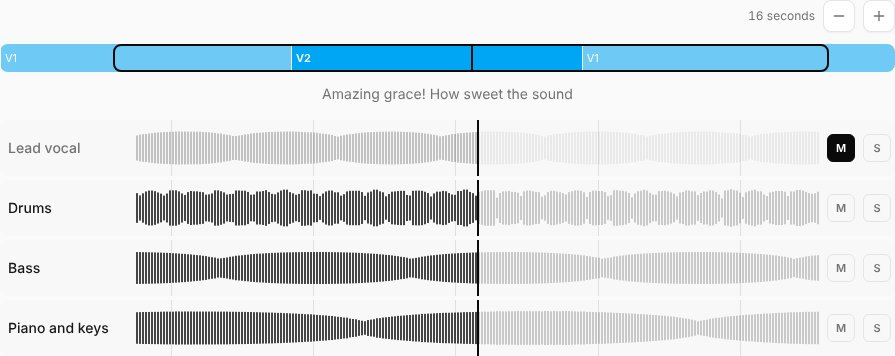
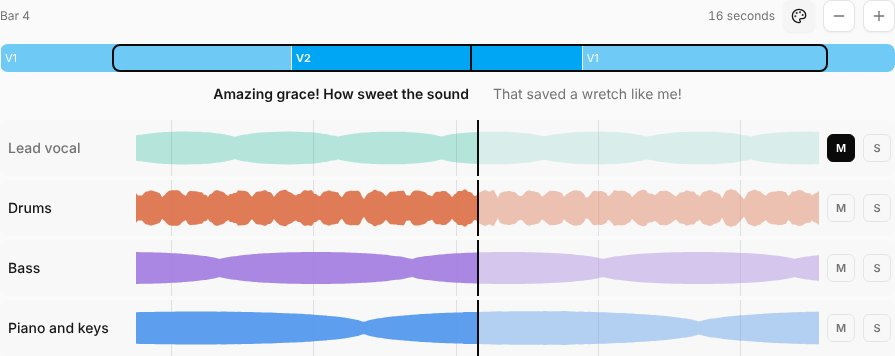
Tracks: waveforms as a filled shape, a colour per part
brice compared eight ways to draw the Tracks view's waveforms and picked
the filled shape: one smooth outline mirrored about the middle, calmer
than thin lines while it scrolls. Each lane and the take being recorded
draw it, played solid and ahead faint, a muted part fainter. Each part
has its colour (voices green and teal, drums orange, bass purple, guitar
amber, keys blue), on by default, with a toggle in the toolbar kept on the
device (lib/track-colours.ts).

e2e web/tracks reads a lane's pixels: coloured, then grey with the toggle
off. Docs EN/FR; the English Tracks screenshot retaken (the French run of
the screenshots stopped before it in this container).

Closes #379

Claude-Session: https://claude.ai/code/session_016jjJSwhSFwdR6ZM1cYGhrp

diff --git a/apps/web/src/components/tracks-view.tsx b/apps/web/src/components/tracks-view.tsx
@@ -1,5 +1,5 @@
 import { barAt, barBeatPlaces, chartBars, cueAt, lineAtPosition, recordingBeatPosition, sortedCues, type Attachment, type CueSection, type RenderedChart, type SongDocumentV2 } from "@oneverse/core";
-import { Minus, Plus } from "lucide-react";
+import { Minus, Palette, Plus } from "lucide-react";
 import { useCallback, useEffect, useMemo, useRef, useState, type PointerEvent as ReactPointerEvent } from "react";
 import { useTranslation } from "react-i18next";
 import { Button } from "@oneverse/ui/components/button";
@@ -10,17 +10,50 @@ import { useTrackName } from "#/components/stem-dock";
 import { keepInView } from "#/lib/follow-view";
 import { deviceNow } from "#/lib/output-clock";
 import { getStemState, isAudible, seekStems, stemBuffer, toggleStemMute, toggleStemSolo, useStems, type StemTrack } from "#/lib/stem-engine";
+import { partColour, setTrackColours, useTrackColours } from "#/lib/track-colours";
 import { COLUMN, columnPeaks, liveTake } from "#/lib/take-strip";
 import { useMarkTracksShown } from "#/lib/tracks-shown";
 
 /** How much of the song the lanes show (s); the last, all of it. */
 const ZOOMS = [8, 16, 32, Number.POSITIVE_INFINITY];
 const DEFAULT_ZOOM = 1;
-/** Each column's width and the gap after it (CSS px). */
-const BAR = 2;
-const STEP = 3;
+/** How far apart the waveform's outline is read (CSS px). */
+const STEP = 2;
 /** The words lit a beat before they're sung, as in the chart. */
 const AHEAD = 1;
+
+/**
+ * A waveform as one filled shape, mirrored about the middle (issue #379):
+ * calmer than lines while it scrolls. `levels` are 0-1, one every STEP px
+ * from x = 0; left of `cut` is drawn as played, the rest as ahead.
+ */
+function drawShape(context: CanvasRenderingContext2D, width: number, height: number, levels: number[], cut: number, played: { colour: string; alpha: number }, ahead: { colour: string; alpha: number }) {
+  if (!levels.some((level) => level > 0)) return;
+  const middle = height / 2;
+  const half = (level: number) => (level > 0 ? Math.max(0.5, along(level) * (middle - 2)) : 0);
+  const outline = () => {
+    context.beginPath();
+    context.moveTo(0, middle);
+    levels.forEach((level, i) => context.lineTo(i * STEP, middle - half(level)));
+    for (let i = levels.length - 1; i >= 0; i--) context.lineTo(i * STEP, middle + half(levels[i]!));
+    context.closePath();
+  };
+  for (const [left, right, look] of [
+    [0, cut, played],
+    [cut, width, ahead],
+  ] as const) {
+    if (right <= left || look.alpha <= 0) continue;
+    context.save();
+    context.beginPath();
+    context.rect(left, 0, right - left, height);
+    context.clip();
+    context.globalAlpha = look.alpha;
+    context.fillStyle = look.colour;
+    outline();
+    context.fill();
+    context.restore();
+  }
+}
 
 /** The bar lines between `from` and `to` (s): the recording's own downbeats when they were found, else its tempo from its first beat. */
 function barLines(beat: ReturnType<typeof getStemState>["beat"], from: number, to: number): number[] {
@@ -119,8 +152,9 @@ export function TracksView({
   const canvases = useRef<(HTMLCanvasElement | null)[]>([]);
   const takeCanvas = useRef<HTMLCanvasElement | null>(null);
   const windowBox = useRef<HTMLDivElement | null>(null);
-  const latest = useRef({ tracks, duration, span, whole, engine, bars, places, lines });
-  latest.current = { tracks, duration, span, whole, engine, bars, places, lines };
+  const coloured = useTrackColours();
+  const latest = useRef({ tracks, duration, span, whole, engine, bars, places, lines, coloured });
+  latest.current = { tracks, duration, span, whole, engine, bars, places, lines, coloured };
   const [recording, setRecording] = useState(false);
   // The take's lane in view as it starts, above the player and the recorder (once, not on each render).
   const showTake = useCallback((element: HTMLLIElement | null) => {
@@ -156,7 +190,7 @@ export function TracksView({
       return { context, width, height };
     };
     let frame = requestAnimationFrame(function tick() {
-      const { tracks, duration, engine, bars, places, lines } = latest.current;
+      const { tracks, duration, engine, bars, places, lines, coloured } = latest.current;
       const at = stemsPosition();
       tracks.forEach((track, index) => {
         const element = canvases.current[index];
@@ -173,15 +207,14 @@ export function TracksView({
           context.globalAlpha = 0.18;
           for (const line of lines) context.fillRect(Math.round(((line - from) / length) * width), 0, 1, height);
         }
-        for (let x = 0; x < width; x += STEP) {
+        const levels: number[] = [];
+        for (let x = 0; x <= width + STEP; x += STEP) {
           const start = from + (x / width) * length;
-          const level = peakBetween(track, start, start + per);
-          if (level <= 0) continue;
-          const size = Math.max(1, along(level) * (height - 4));
-          context.fillStyle = start < at ? colours.played : colours.ahead;
-          context.globalAlpha = (start < at ? 0.75 : 0.35) * (on ? 1 : 0.3);
-          context.fillRect(x, (height - size) / 2, BAR, size);
+          levels.push(start < 0 ? 0 : peakBetween(track, start, start + per));
         }
+        // A colour per part (issue #379), else the page's ink.
+        const tint = coloured && !track.take ? partColour(track.part, index) : null;
+        drawShape(context, width, height, levels, ((at - from) / length) * width, { colour: tint ?? colours.played, alpha: (tint ? 0.9 : 0.75) * (on ? 1 : 0.3) }, { colour: tint ?? colours.ahead, alpha: (tint ? 0.4 : 0.35) * (on ? 1 : 0.3) });
         context.globalAlpha = 1;
         context.fillStyle = colours.head;
         context.fillRect(Math.round(head) - 1, 0, 2, height);
@@ -198,18 +231,17 @@ export function TracksView({
         const { context, width, height } = prepared;
         const { from, length, head } = frameOf(width, at);
         const peaks = liveTake.peaks;
-        context.fillStyle = colours.take;
-        for (let x = 0; x < width; x += STEP) {
+        const levels: number[] = [];
+        for (let x = 0; x <= width + STEP; x += STEP) {
           const start = from + (x / width) * length;
           if (start > at) break;
           const first = Math.floor((start - liveTake.from) / COLUMN);
           const last = Math.floor((start + (length / width) * STEP - liveTake.from) / COLUMN);
           let level = 0;
           for (let column = Math.max(0, first); column <= Math.min(peaks.length - 1, last); column++) level = Math.max(level, peaks[column]!);
-          if (level <= 0) continue;
-          const size = Math.max(1, along(level) * (height - 4));
-          context.fillRect(x, (height - size) / 2, BAR, size);
+          levels.push(level);
         }
+        drawShape(context, width, height, levels, width, { colour: colours.take, alpha: 1 }, { colour: colours.take, alpha: 0 });
         context.fillStyle = colours.head;
         context.fillRect(Math.round(head) - 1, 0, 2, height);
       }
@@ -274,6 +306,19 @@ export function TracksView({
         <span className="tabular-nums" data-testid="tracks-zoom">
           {whole ? t("tracks.wholeSong") : t("tracks.seconds", { count: span })}
         </span>
+        <Button
+          type="button"
+          variant={coloured ? "secondary" : "outline"}
+          size="icon"
+          className="size-8"
+          onClick={() => setTrackColours(!coloured)}
+          aria-pressed={coloured}
+          aria-label={t("tracks.colours")}
+          title={t("tracks.colours")}
+          data-testid="tracks-colours"
+        >
+          <Palette />
+        </Button>
         <Button type="button" variant="outline" size="icon" className="size-8" disabled={zoom === ZOOMS.length - 1 || whole} onClick={() => setZoom(Math.min(ZOOMS.length - 1, zoom + 1))} aria-label={t("tracks.zoomOut")} title={t("tracks.zoomOut")} data-testid="tracks-zoom-out">
           <Minus />
         </Button>

diff --git a/apps/web/src/lib/track-colours.ts b/apps/web/src/lib/track-colours.ts
@@ -1,0 +1,64 @@
+import type { StemPart } from "@oneverse/core";
+import { useSyncExternalStore } from "react";
+
+/**
+ * A colour per part for the Tracks view's waveforms (issue #379): voices in
+ * greens and teals, the rhythm section warm, the rest cool. Mid lightness, so
+ * they read on a light page and a dark one alike.
+ */
+const HUES: Record<StemPart, number> = {
+  VOCALS: 175,
+  HARMONY_SOPRANO: 155,
+  HARMONY_ALTO: 140,
+  HARMONY_TENOR: 125,
+  HARMONY_BASS: 110,
+  BACKING_VOCALS: 195,
+  DRUMS: 40,
+  BASS: 300,
+  GUITAR: 75,
+  KEYS: 255,
+  OTHER: 220,
+  CLICK: 0,
+};
+/** For parts that don't say what they are: in turn. */
+const SPARE = [20, 330, 90, 235, 160, 280];
+
+export function partColour(part: StemPart | null, index: number): string {
+  if (part === "CLICK") return "oklch(0.62 0 0)";
+  const hue = part ? HUES[part] : SPARE[index % SPARE.length]!;
+  return `oklch(0.66 0.15 ${hue})`;
+}
+
+const KEY = "songverse.tracksColours";
+const listeners = new Set<() => void>();
+let shown: boolean | null = null;
+
+function read(): boolean {
+  try {
+    return localStorage.getItem(KEY) !== "off";
+  } catch {
+    return true;
+  }
+}
+
+/** Colours on or off, chosen on the device. */
+export function setTrackColours(on: boolean) {
+  try {
+    localStorage.setItem(KEY, on ? "on" : "off");
+  } catch {
+    // Not kept (a private window): still changed for this page.
+  }
+  shown = on;
+  for (const listener of listeners) listener();
+}
+
+export function useTrackColours(): boolean {
+  return useSyncExternalStore(
+    (listener) => {
+      listeners.add(listener);
+      return () => listeners.delete(listener);
+    },
+    () => (shown ??= read()),
+    () => true,
+  );
+}

diff --git a/packages/core/src/i18n/locales/fr.ts b/packages/core/src/i18n/locales/fr.ts
@@ -950,6 +950,7 @@ const fr: typeof en = {
     zoomIn: "Zoomer",
     zoomOut: "Dézoomer",
     take: "Enregistrement",
+    colours: "Une couleur par partie",
   },
   chartView: {
     label: "Afficher la grille, les mesures, un PDF ou les pistes",

diff --git a/packages/core/src/i18n/locales/en.ts b/packages/core/src/i18n/locales/en.ts
@@ -950,6 +950,7 @@ const en = {
     zoomIn: "Zoom in",
     zoomOut: "Zoom out",
     take: "Recording",
+    colours: "A colour per part",
   },
   chartView: {
     label: "Read as the chart, the chord grid, a PDF or the tracks",

diff --git a/apps/docs/src/content/docs/fr/library.md b/apps/docs/src/content/docs/fr/library.md
@@ -225,7 +225,7 @@ Les pistes gardées sur votre appareil pour le hors ligne (**Avec l'audio**, voi
 
 - **En haut**, les sections de tout le chant (une fois [placées](/fr/library/#les-sections-dun-enregistrement)), avec un cadre autour du passage montré dans les couloirs. Touchez-le pour y aller.
 - **Les paroles** chantées, avec la ligne d'avant et celle d'après.
-- **Un couloir par piste** : sa forme d'onde sous la tête de lecture, plus foncée sur ce qui a été joué, avec les mesures marquées. **M** et **S** la coupent ou la mettent en solo, comme dans le lecteur, et une piste coupée est pâle. Touchez un couloir pour aller à cet endroit.
+- **Un couloir par piste** : sa forme d'onde, une forme pleine sous la tête de lecture, plus foncée sur ce qui a été joué, avec les mesures marquées. Chaque piste a sa couleur (les voix en vert, la batterie en orange, la basse en violet, les claviers en bleu...) ; **Une couleur par partie** (le bouton palette) les retire ou les remet, gardé sur cet appareil. **M** et **S** la coupent ou la mettent en solo, comme dans le lecteur, et une piste coupée est pâle. Touchez un couloir pour aller à cet endroit.
 - **Zoomez** avec **-** et **+**, de 8 secondes à tout le chant.
 - **Pendant que vous enregistrez une piste** dans le lecteur, la prise a son propre couloir rouge, qui grandit à mesure que vous chantez. Avec les couloirs à l'écran, le lecteur ne montre que l'enregistreur, puisque les couloirs ont déjà les pistes.
 

diff --git a/apps/docs/src/content/docs/library.md b/apps/docs/src/content/docs/library.md
@@ -225,7 +225,7 @@ Stems kept on your device for offline use (**Include audio**, see [Working offli
 
 - **Across the top**, the whole song's sections (once they're [placed](/library/#the-sections-of-a-recording)), with a box round the part the lanes show. Tap it to go there.
 - **The words** being sung, with the line before and the line after.
-- **A lane per part**: its waveform under the playhead, darker where it's been played, with the bars marked. **M** and **S** mute and solo it, as in the player, and a muted part is faint. Tap a lane to go to that point.
+- **A lane per part**: its waveform, a filled shape under the playhead, darker where it's been played, with the bars marked. Each part has its colour (the voices green, the drums orange, the bass purple, the keys blue...); **A colour per part** (the palette button) turns the colours off or on again, kept on this device. **M** and **S** mute and solo it, as in the player, and a muted part is faint. Tap a lane to go to that point.
 - **Zoom** with **-** and **+**, from 8 seconds to the whole song.
 - **While you record a part** in the player, the take gets a red lane of its own, growing as you sing. With the lanes on screen, the player shows only the recorder, since the lanes already have the parts.
 
